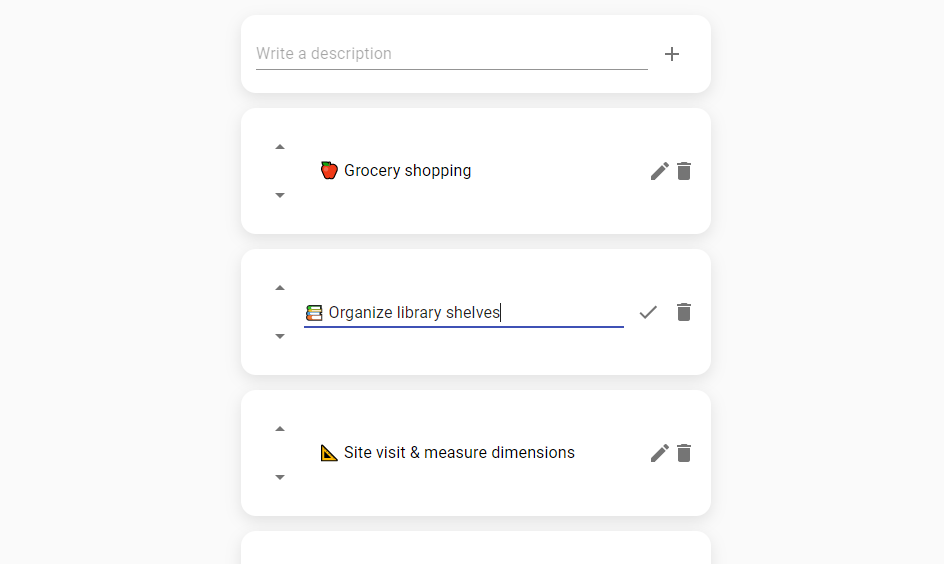
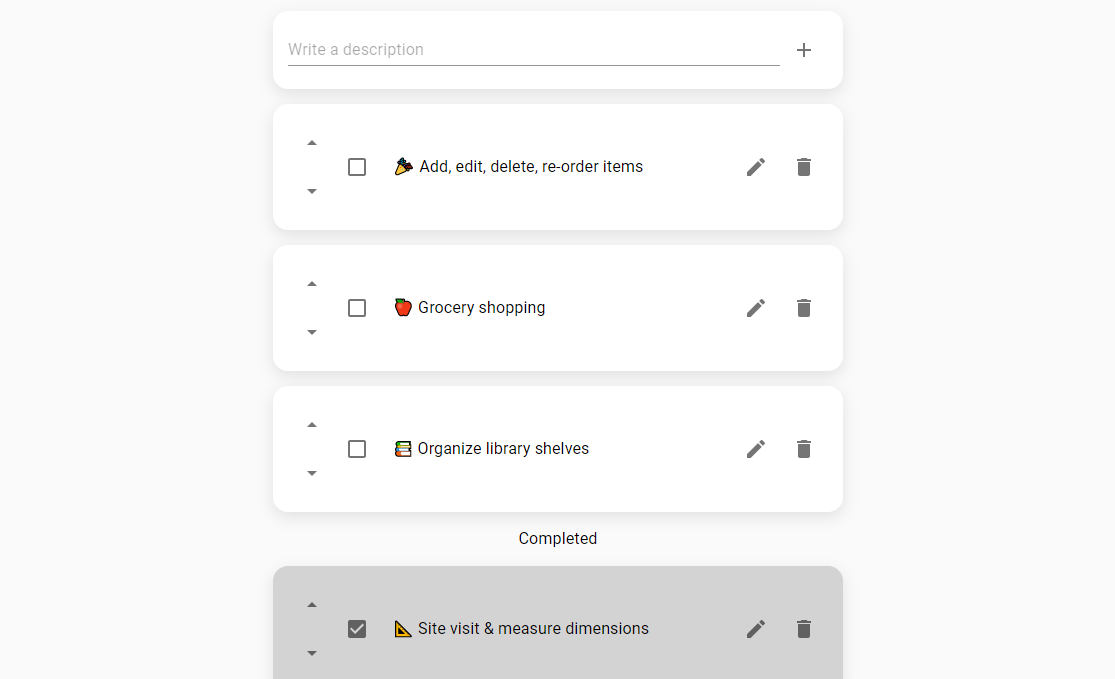
update documentation

diff --git a/README.md b/README.md
@@ -4,8 +4,8 @@
 
 ## Features
 
-- [ ] Text wrap for multi-line input
-- [ ] Multi-line input
+- [x] Checkbox & completed task section
+- [x] Example items
 - [x] Basic styling
 - [x] Re-ordering feature
 - [x] Unique key to eliminate re-ordering bug
